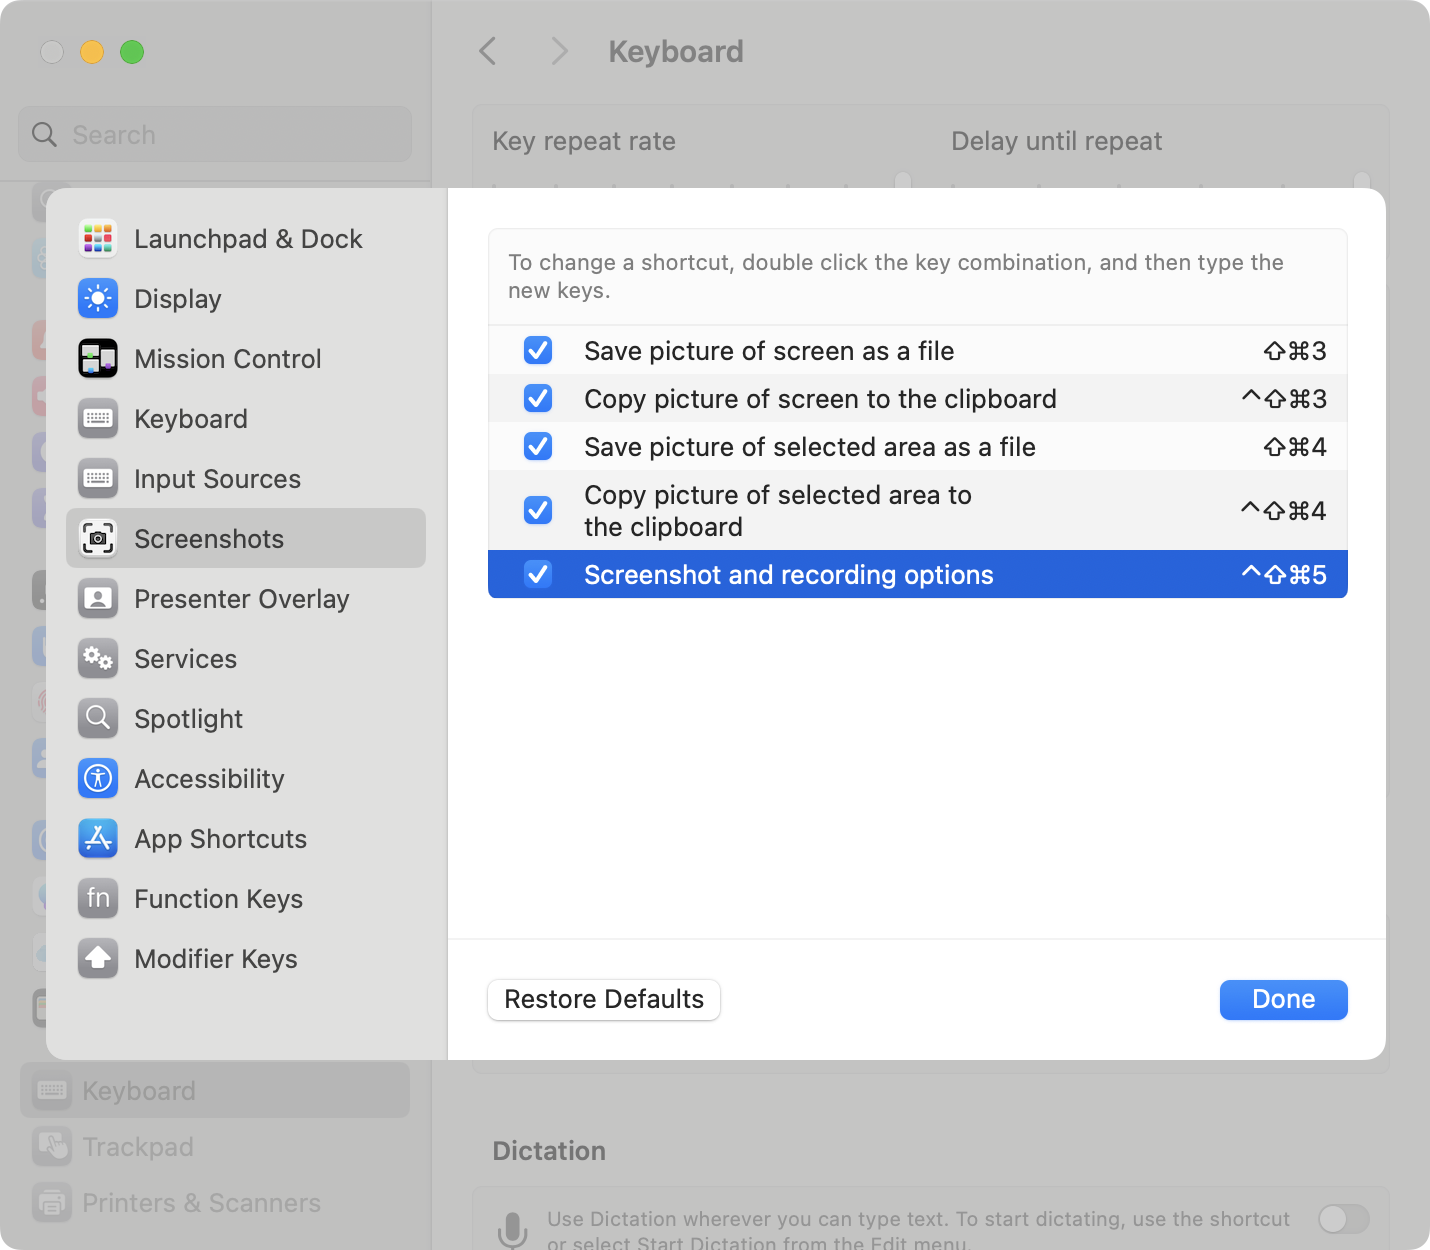
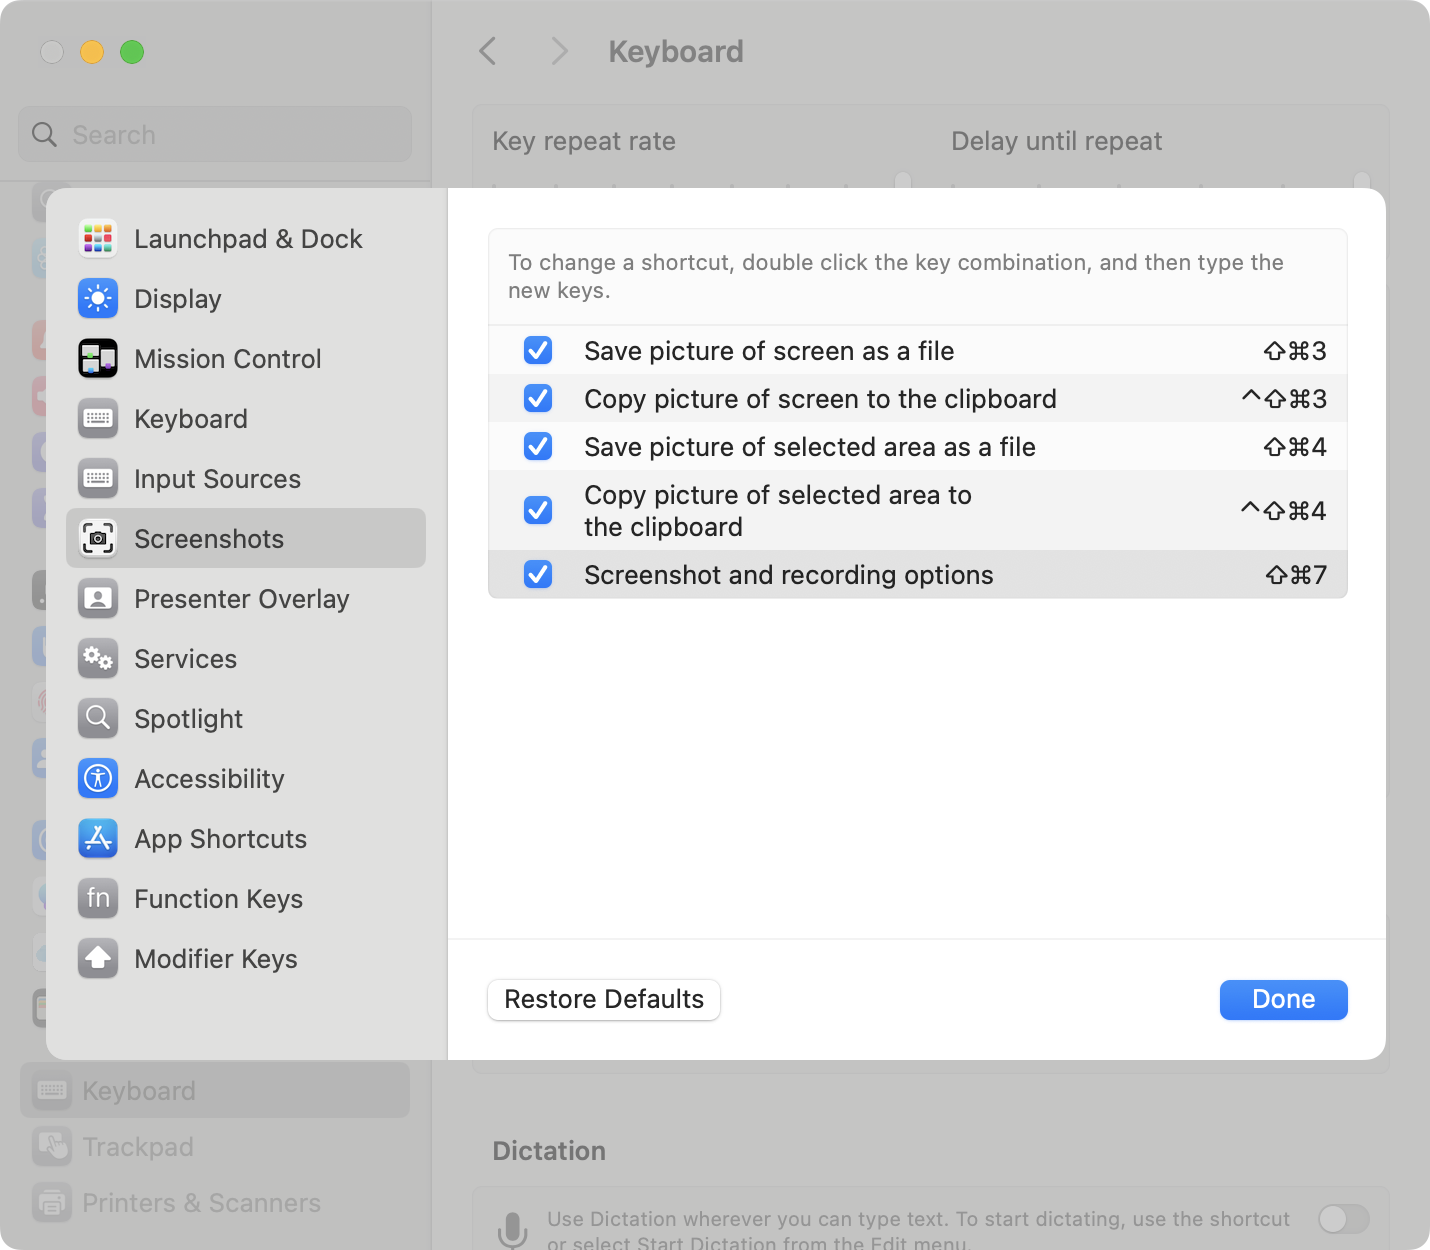
update skitch.md

Changed region(s): [[0.3385, 0.4368, 0.9538, 0.4992]]

diff --git a/docs/skitch.md b/docs/skitch.md
@@ -11,7 +11,7 @@ https://apps.apple.com/jp/app/id425955336?mt=12
 `⇧⌘5` が Mac 標準の画面キャプチャオプションと被っている。
 Skitch 側は修正できないため、Mac 側の設定を変える必要がある。
 
-`Settings > Keyboard > Keyboard Shortcuts > Screenshots` にて、Mac 側の設定を `⌃⇧⌘5` に変更することで重複を避ける。
+`Settings > Keyboard > Keyboard Shortcuts > Screenshots` にて、Mac 側の設定を `⌃⇧⌘7` に変更することで重複を避ける。
 
 ![](../assets/img/skitch_01.png))
 ![](../assets/img/skitch_02.png))
